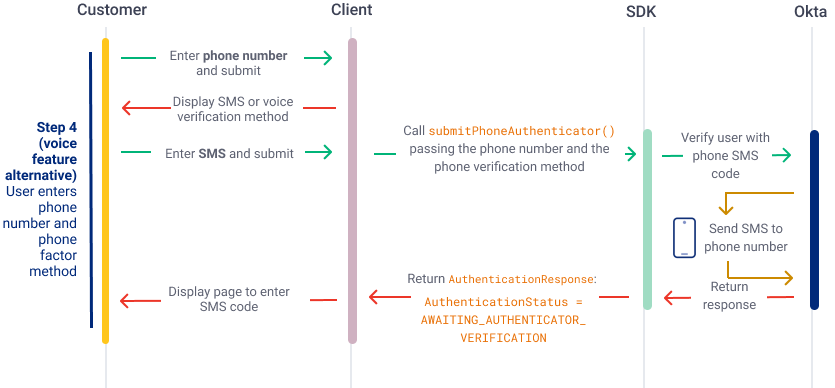
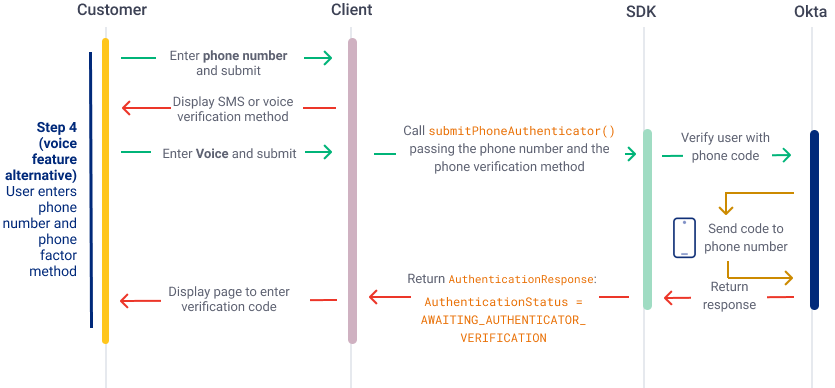
implement Jay's feedback

diff --git a/packages/@okta/vuepress-site/docs/guides/oie-embedded-sdk-use-cases/oie-embedded-sdk-use-case-sign-in-pwd-phone/java/integrationsteps.md b/packages/@okta/vuepress-site/docs/guides/oie-embedded-sdk-use-cases/oie-embedded-sdk-use-case-sign-in-pwd-phone/java/integrationsteps.md
@@ -109,7 +109,7 @@ You need to build a form to capture the user's phone number as well as a subsequ
 
 </div>
 
-When the user enters their phone number and selects SMS to receive the verification code, capture this information and send it to the [`IDXAuthenticationWrapper.submitPhoneAuthenticator()`](https://github.com/okta/okta-idx-java/blob/master/api/src/main/java/com/okta/idx/sdk/api/client/IDXAuthenticationWrapper.java#L398) method. For example:
+After the user enters their phone number and selects a method to receive the verification code, capture this information and send it to the [`IDXAuthenticationWrapper.submitPhoneAuthenticator()`](https://github.com/okta/okta-idx-java/blob/master/api/src/main/java/com/okta/idx/sdk/api/client/IDXAuthenticationWrapper.java#L398) method. For example:
 
 ```java
 AuthenticationResponse authenticationResponse =
@@ -117,9 +117,9 @@ AuthenticationResponse authenticationResponse =
          phone, getFactorFromMethod(session, mode));
 ```
 
-The Java SDK sends the phone authenticator data to Okta. Okta processes the request and sends an SMS code to the specified phone number. After the SMS code is sent, Okta sends a response to the SDK, which returns `AuthenticationStatus=AWAITING_AUTHENTICATOR_VERIFICATION` to your client app. This status indicates that the user needs to provide the verification code for the phone authenticator.
+The Java SDK sends the phone authenticator data to Okta. Okta processes the request and sends a code to the specified phone number. After the code is sent, Okta sends a response to the SDK, which returns `AuthenticationStatus=AWAITING_AUTHENTICATOR_VERIFICATION` to your client app. This status indicates that the user needs to provide the verification code for the phone authenticator.
 
-> **Note:** Alternatively, if the user selects **Voice** as the phone verification method, Okta sends an automated voice message with the verification code to the specified phone.
+> **Note:** If the user selects **Voice** as the phone verification method, Okta sends an automated voice message with the verification code to the specified phone.
 
 You need to build a form to capture the user's verification code.
 
